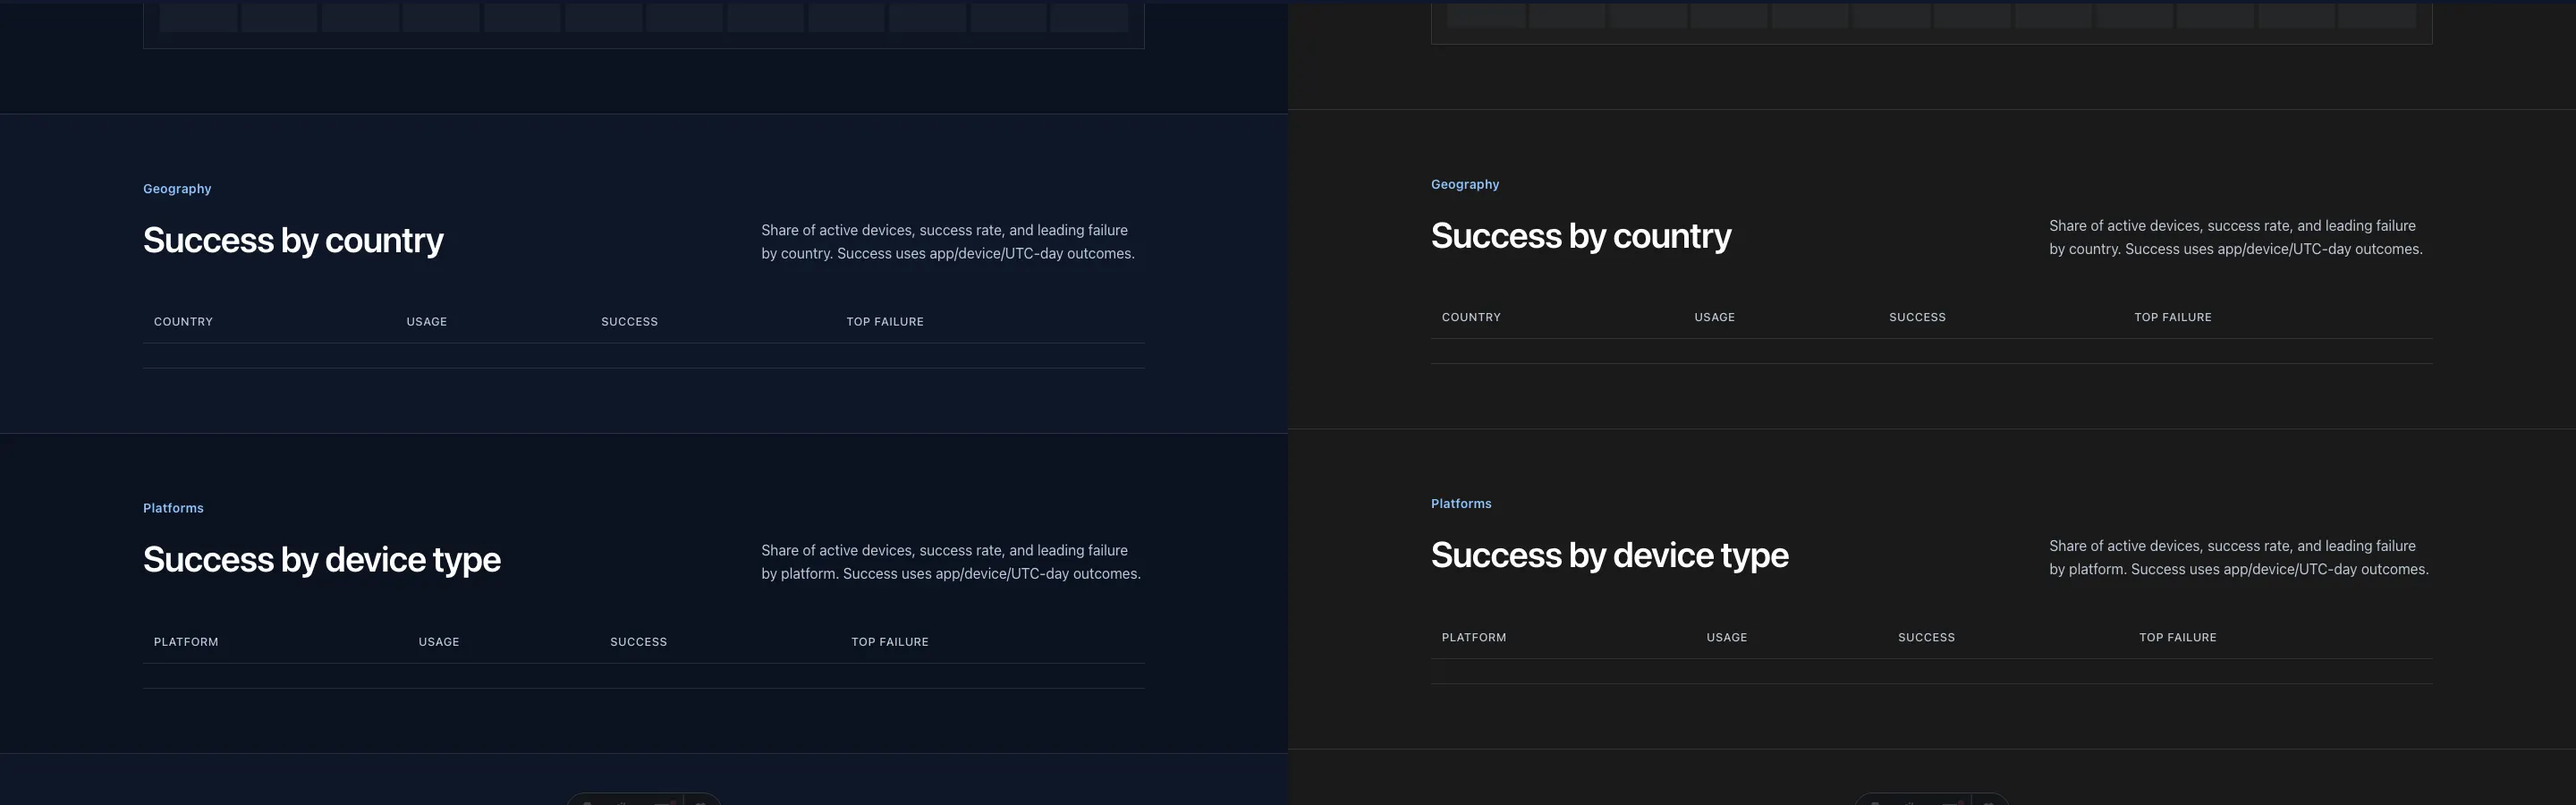
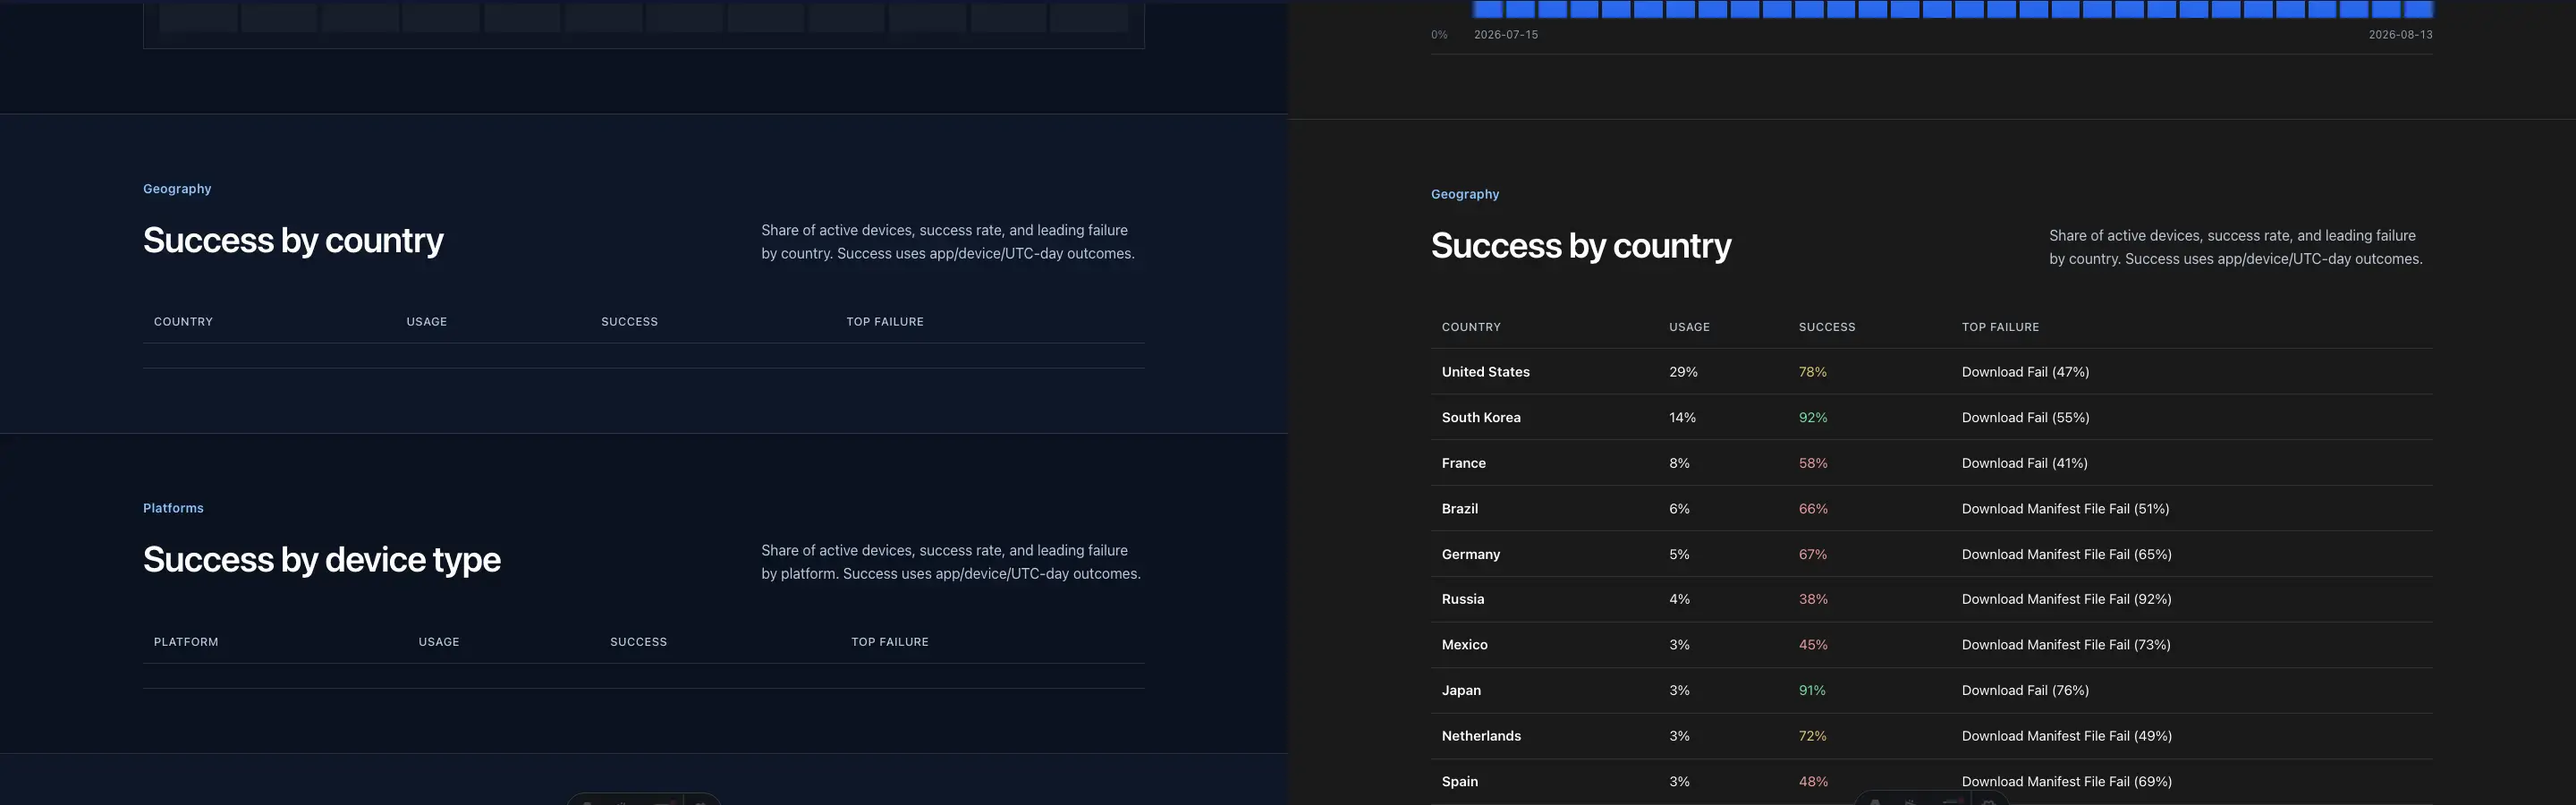
fix(web): quiet leftover product-page seams
Keep after-fold charcoal continuous and drop dead variant styling cubic flagged.

diff --git a/apps/web/src/styles/product-surface.css b/apps/web/src/styles/product-surface.css
@@ -123,21 +123,16 @@
   box-shadow: none;
 }
 
-.product-video .product-video-frame {
+section.product-video .product-video-frame {
   border-radius: 12px;
   box-shadow: none;
 }
 
-.product-proof .proof-card-wrap {
+section.product-proof .proof-card-wrap {
   border-radius: 12px;
 }
 
 main.data-page,
-main.data-page .data-hero,
 main.data-page .data-section {
-  background: #1a1a1a;
-}
-
-main.data-page .data-hero {
   background: #1a1a1a;
 }
